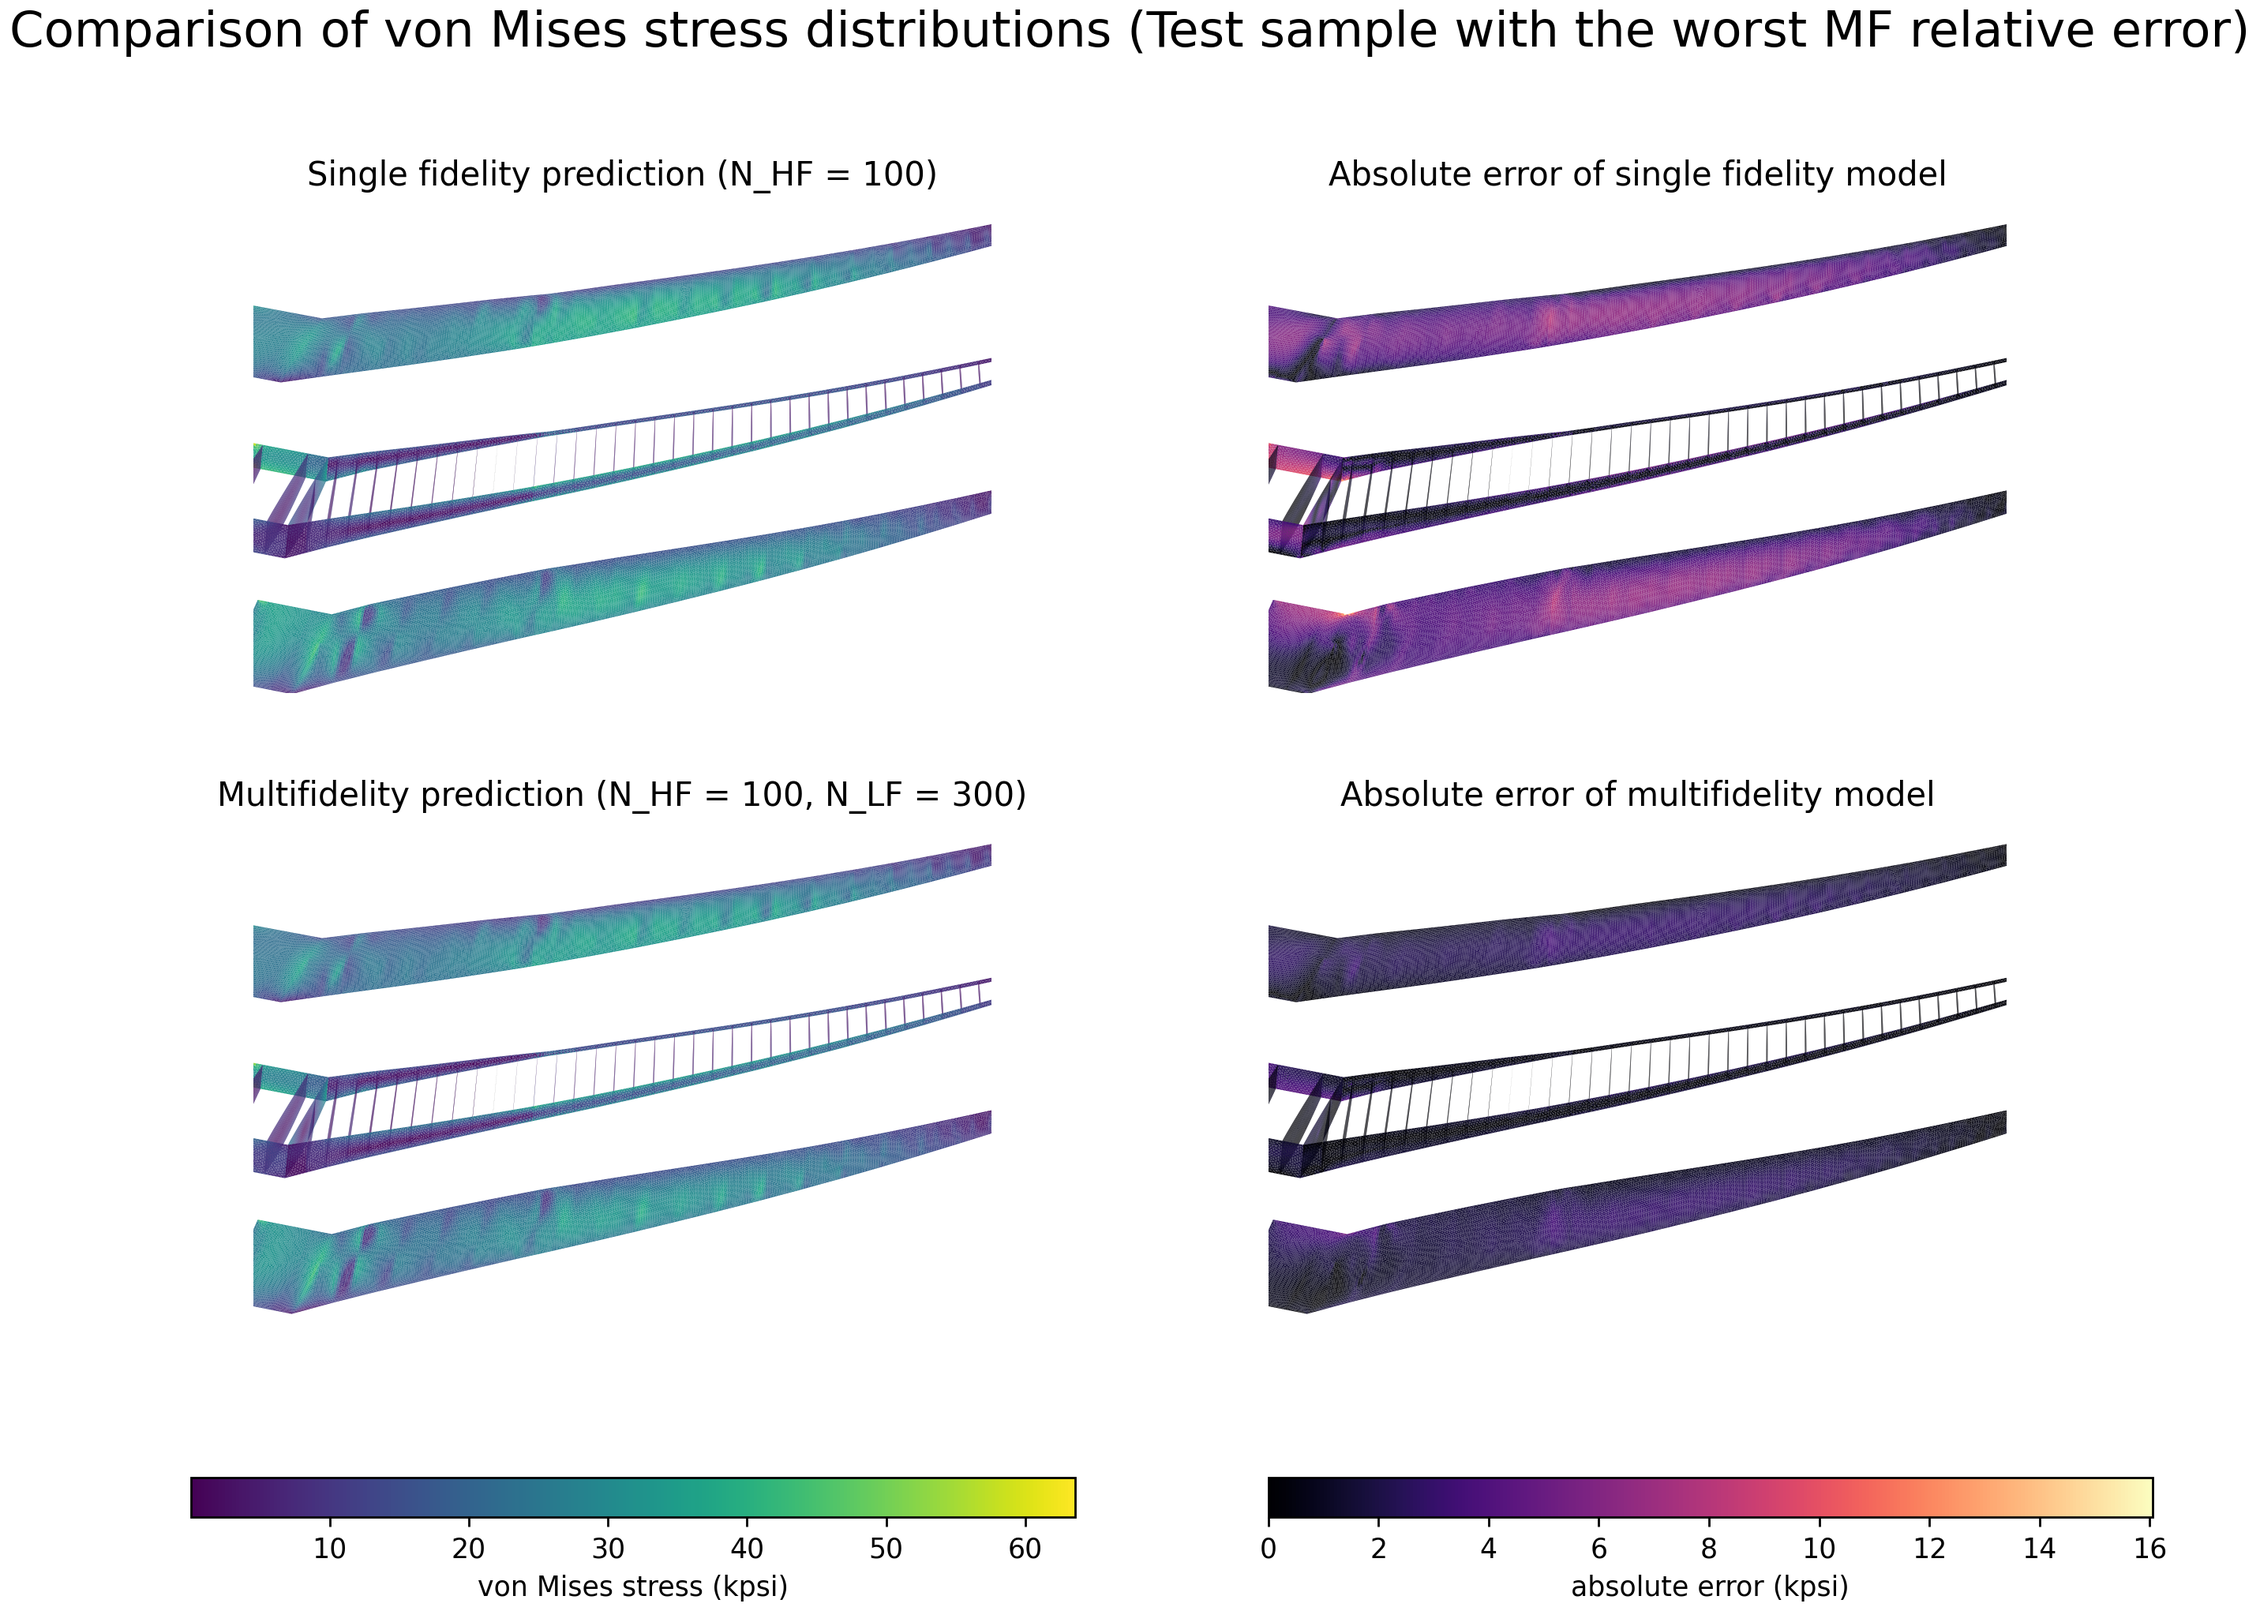
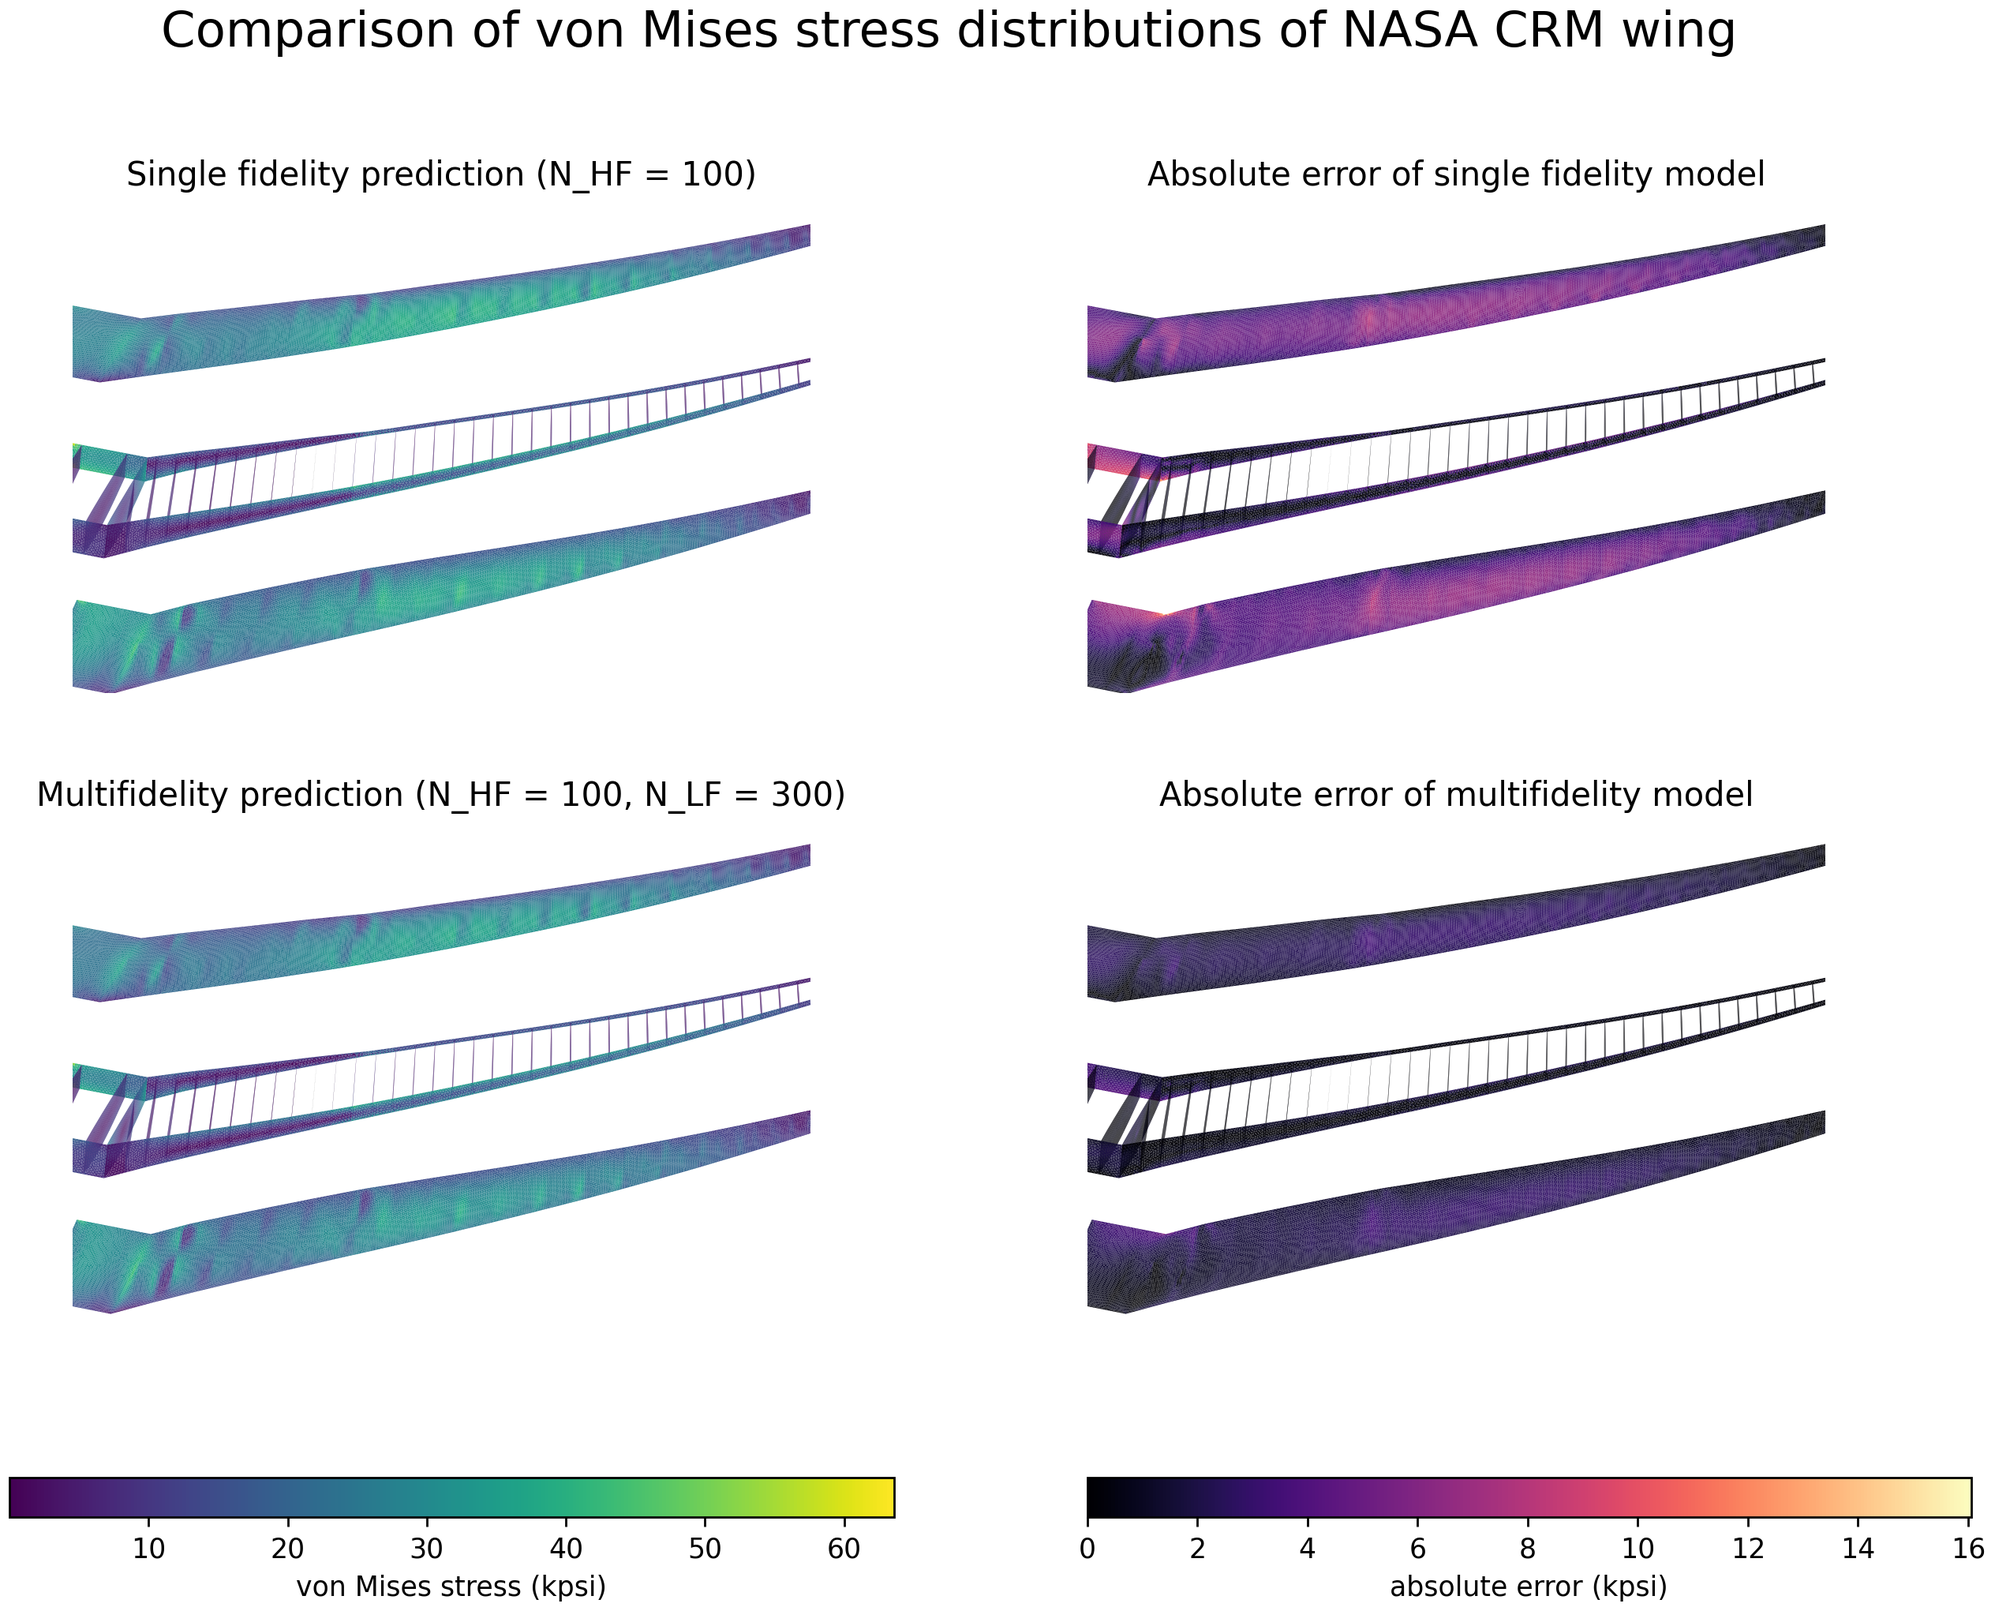
update wing example plot

diff --git a/examples/wing/mfkr_field.py b/examples/wing/mfkr_field.py
@@ -144,9 +144,7 @@ def main() -> None:
     )
     if not 0 <= plot_index < args.n_test:
         raise ValueError("--plot-test-index must refer to an item in the test set.")
-    plot_title = "Comparison of von Mises stress distributions"
-    if args.plot_test_index < 0:
-        plot_title += " (Test sample with the worst MF relative error)"
+    plot_title = "Comparison of von Mises stress distributions of NASA CRM wing"
 
     args.output_dir.mkdir(parents=True, exist_ok=True)
     low_label = f"lowfi_{args.low_fidelity}"
